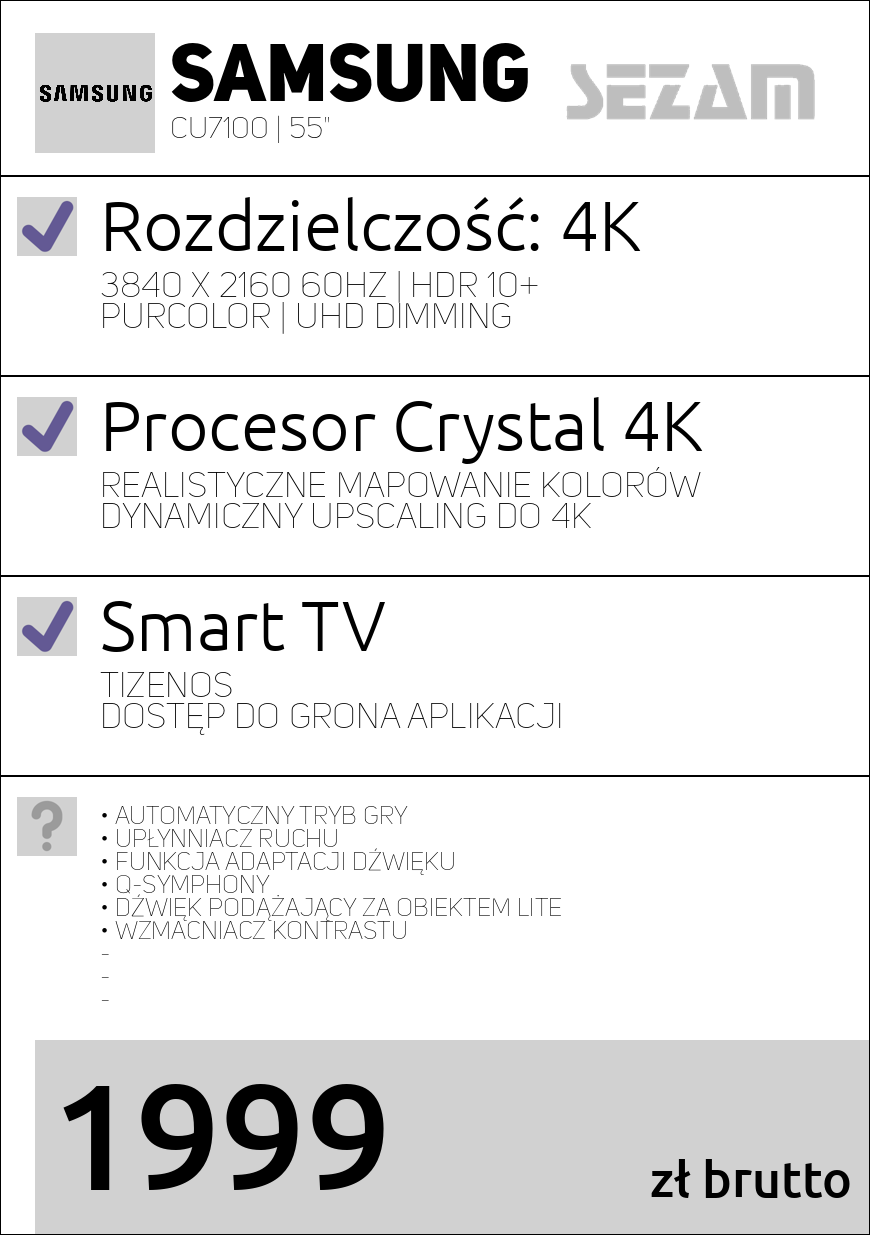
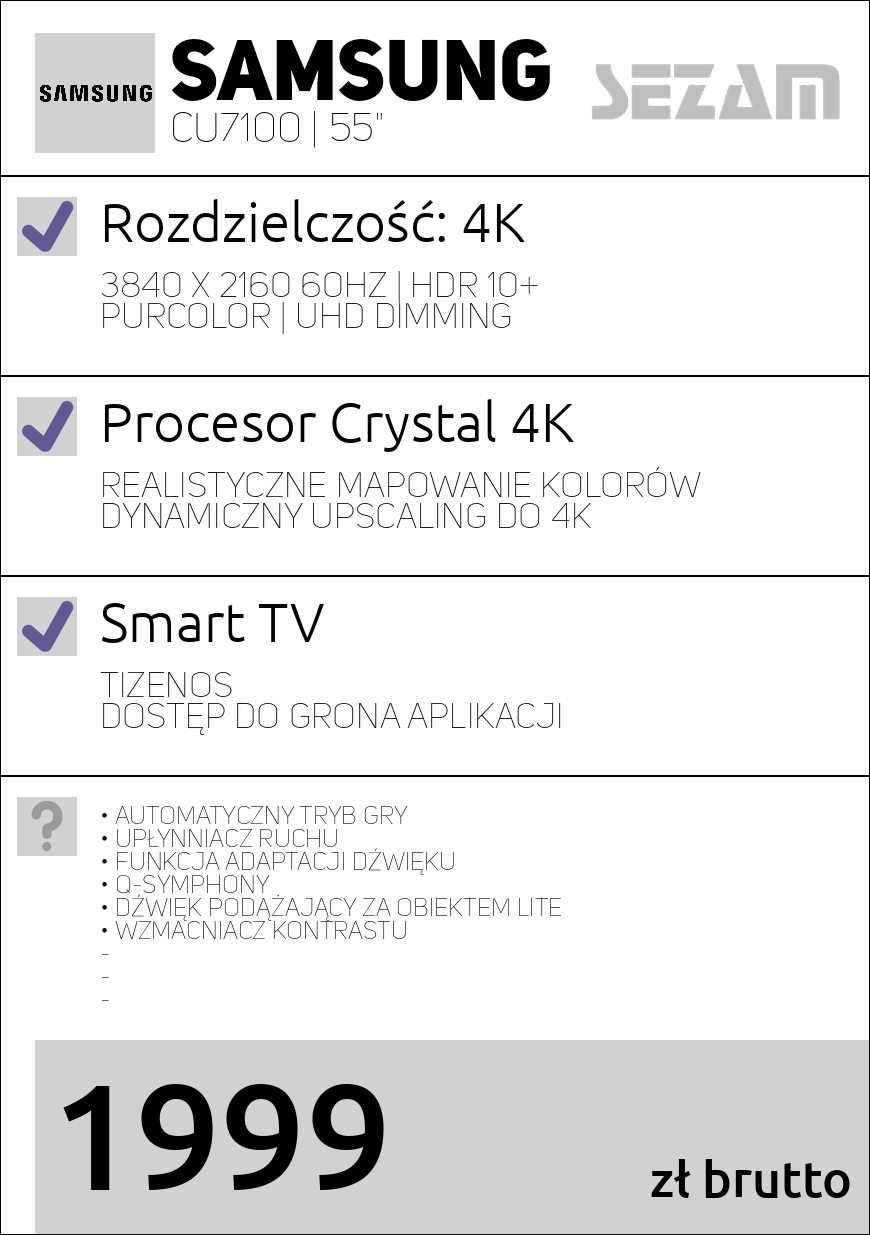
Adjust stuff

diff --git a/gen/laptop.py b/gen/laptop.py
@@ -90,16 +90,16 @@ def generate_image_from_text_files(text_files, output_image, lines_y, image_mapp
 
 # Example usage:
 text_files = {
-    "title.txt": {"x": 170, "y": 40, "font_size": 80, "text_color": (0, 0, 0), "font_file": "us_heavy.otf"},
-    "desc.txt": {"x": 170, "y": 115, "font_size": 30, "text_color": (0, 0, 0), "font_file": "us_thin.otf"},
+    "title.txt": {"x": 170, "y": 35, "font_size": 85, "text_color": (0, 0, 0), "font_file": "us_heavy.otf"},
+    "desc.txt": {"x": 170, "y": 110, "font_size": 40, "text_color": (0, 0, 0), "font_file": "us_thin.otf"},
 
-    "sub1.txt": {"x": 100, "y": 185, "font_size": 70, "text_color": (0, 0, 0), "font_file": "fonts/Ubuntu-L.ttf"},
+    "sub1.txt": {"x": 100, "y": 190, "font_size": 55, "text_color": (0, 0, 0), "font_file": "fonts/Ubuntu-L.ttf"},
     "text1.txt": {"x": 100, "y": 270, "font_size": 35, "text_color": (0, 0, 0), "font_file": "us_thin.otf"},
 
-    "sub2.txt": {"x": 100, "y": 385, "font_size": 70, "text_color": (0, 0, 0), "font_file": "fonts/Ubuntu-L.ttf"},
+    "sub2.txt": {"x": 100, "y": 390, "font_size": 55, "text_color": (0, 0, 0), "font_file": "fonts/Ubuntu-L.ttf"},
     "text2.txt": {"x": 100, "y": 470, "font_size": 35, "text_color": (0, 0, 0), "font_file": "us_thin.otf"},
 
-    "sub3.txt": {"x": 100, "y": 585, "font_size": 70, "text_color": (0, 0, 0), "font_file": "fonts/Ubuntu-L.ttf"},
+    "sub3.txt": {"x": 100, "y": 590, "font_size": 55, "text_color": (0, 0, 0), "font_file": "fonts/Ubuntu-L.ttf"},
     "text3.txt": {"x": 100, "y": 670, "font_size": 35, "text_color": (0, 0, 0), "font_file": "us_thin.otf"},
 
     "text4.txt": {"x": 100, "y": 805, "font_size": 25, "text_color": (0, 0, 0), "font_file": "us_thin.otf"},
@@ -129,7 +129,7 @@ image_mapping = {
 }  # Dictionary containing text content and corresponding PNG image filenames
 
 image_data = {
-    "logo.png": {"x": 500, "y": 42, "scale": 0.4},
+    "logo.png": {"x": 525, "y": 42, "scale": 0.4},
     "tlo1.png": {"x": 35, "y": 33, "scale": 1},
     "tlo.png": {"x": 35, "y": 1040, "scale": 10},
 
